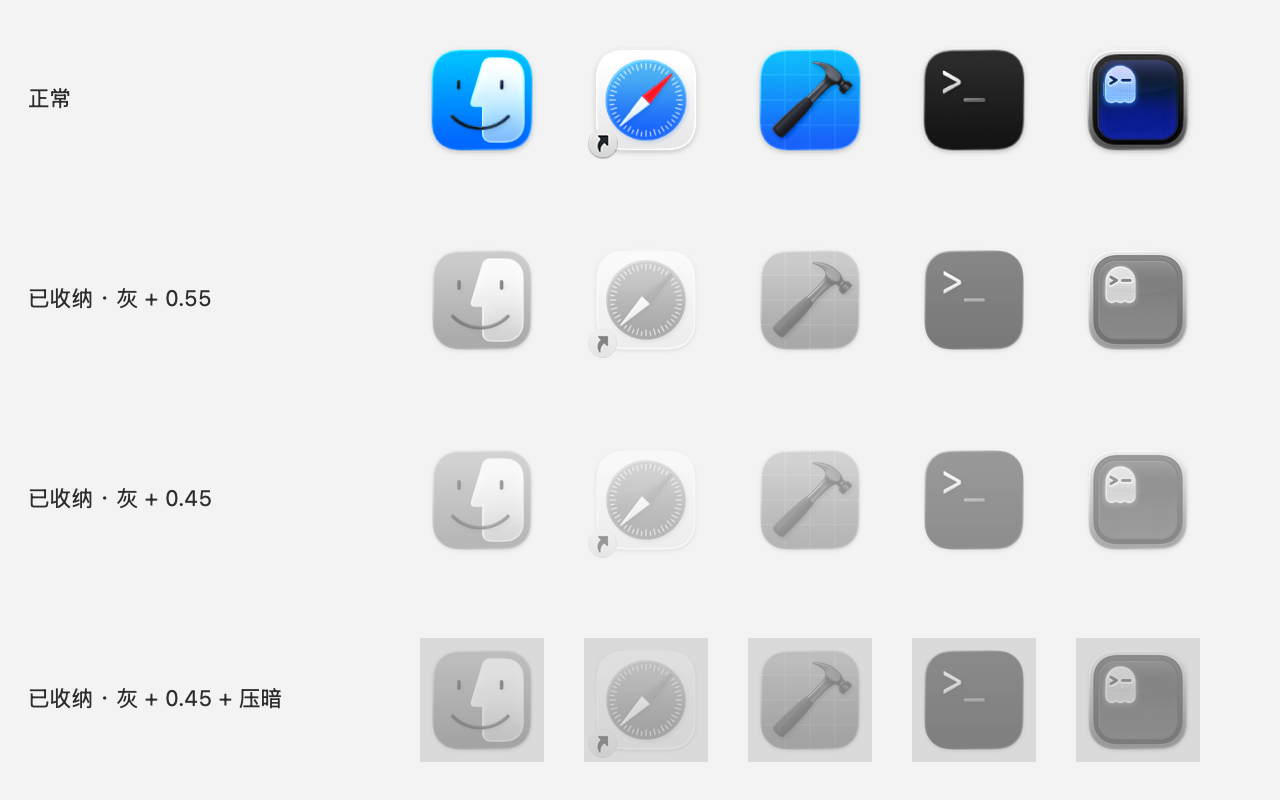
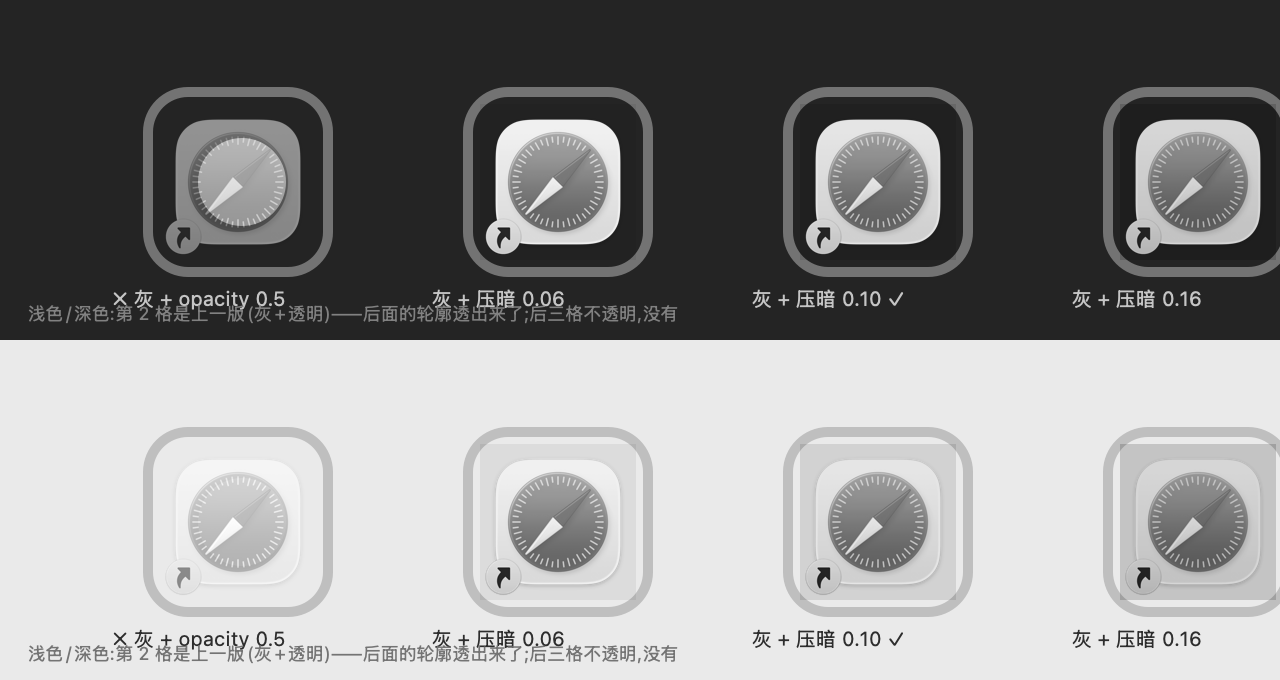
修:"遗照灰"把图标后面那层透出来了(别用 opacity 表达"退后")
用户 2026-09-22 实报:「坏了, 给后面的"骨头"显示出来了哈哈哈。怎么优化这个交互」

## 我的错:拿透明度当"退半步" ✗

`opacity(0.5)` ⇒ 图标整枚变半透明 ⇒ **它后面那一层**就露出来了(面板玻璃、相邻图标、托底轮廓 ✓)
⇒ 读成"碎图 / 见骨头" ✓

## 更该记的是**量具的错**

上一版的对照图(`marklab8`)把图标画在**纯色底**上 ⇒ 永远测不出"透出后面"这件事 ✗
⇒ 我把一个"看起来验证过"的版本交给了用户 ✗
★ 纪律:**量具必须包含真实现场** —— 这里的现场是"图标后面还有别的东西" ✓
  (与仓库那条"漂浮元素不得假设下面一定有玻璃"是同族:都要先承认**存在后面的层** ✓)
⇒ 新版对照图把"骨头"(亮色轮廓 + 亮斑)**画在图标后面** ✓ 一眼就能看出透明那格透过去了 ✓

## 修法:"退后"用**光**交代,不用透明度

- 去掉 `opacity` ✓(全程不透明 ⇒ 后面什么都不露 ✓)
- 灰(`saturation 0`)+ **压暗 `brightness −0.10`** ✓
- 三档对照(0.06 / 0.10 / 0.16)离屏渲染过 ⇒ 取 0.10 ✓(图:`docs/assets/tucked-gray.png` ✓)
- 顺手清掉一个写残的三元(`glow ? -0.10 : -0.10` ✗ —— 两个分支写成一个值,等于没判断 ✓)

## 顺便回答"怎么优化这个交互"

要表达"它退到后面去了",可用的只有两条:
  · **光**:变灰 / 压暗 / 去饱和 ✓(不改变"看得见"这件事 ✓)—— 本例采用的 ✓
  · **位置/形**:下移、缩小 ✗(仓库规矩:不许自作主张动几何 ✓)
而**透明确实是错的** ✗ —— 它的语义是"你能看穿我",不是"我在后面" ✓

diff --git a/Sources/Glance/Panel/PanelView.swift b/Sources/Glance/Panel/PanelView.swift
@@ -414,11 +414,14 @@ private struct IconCell: View {
             //      —— 仓库里早就定过这条口径(见 IconCell 顶部关于"光效总闸"的注释 ✓)
             //   ⚠ 与"已隐藏"分得开:隐藏仍走 `eye.slash` 角标 ✓ 两套语言,一眼分辨 ✓
             .saturation(mark == .tucked ? 0 : (glow ? (selected ? 1.15 : 0.92) : 1))
-            .brightness(glow ? (selected ? 0.05 : -0.04) : 0)
-            // 退多少是**可试的**:0.55 与 0.45 只差一点点(见 docs/assets/tucked-gray.png ✓)
-            // ⇒ 取中间 0.5 ✓;**深色面板下这一档偏弱**(图标本身就暗 ✓ 那张图里能看到 ✓)
-            //    —— 想更狠就改这一个数(或再加一道 lighten),一行的事 ✓
-            .opacity(mark == .tucked ? 0.5 : 1)
+            // ⚠⚠ **别用 opacity 表达"退后"** ✗ —— 用户 2026-09-22 实报:
+            //   「坏了, 给后面的"骨头"显示出来了」:图标一透明,它**后面那一层**就露出来了
+            //   (面板玻璃、相邻图标、托底那一块的轮廓全透出来 ⇒ 读成"碎图/见骨头" ✓)
+            //   我上一版的对照图是画在**纯色底**上的 ⇒ 根本测不出这个 ✗
+            //   ★ 纪律:量具必须包含**真实现场**(这里是"图标后面还有别的东西" ✓),否则等于没测 ✓
+            // ⇒ 正确手法:**灰 + 压暗,全程不透明** ✓("退后"靠亮度差交代,不靠透明度 ✓)
+            //   深色面板下图标本身就暗 ⇒ 压暗要更狠一点才读得出 ✓
+            .brightness(mark == .tucked ? -0.10 : (glow ? (selected ? 0.05 : -0.04) : 0))
             // 倍率 = 选中放大 × 图标透明边距补偿。**补偿是必须的**:macOS 图标的画面只占画布
             // 87.5%(Finder/Safari/Xcode/Terminal 实测 .875,Chrome .867,Obsidian .83),
             // 直接铺进 78pt 格子,画面就只有 68pt —— 比 demo 里铺满格子的色块小一圈,
